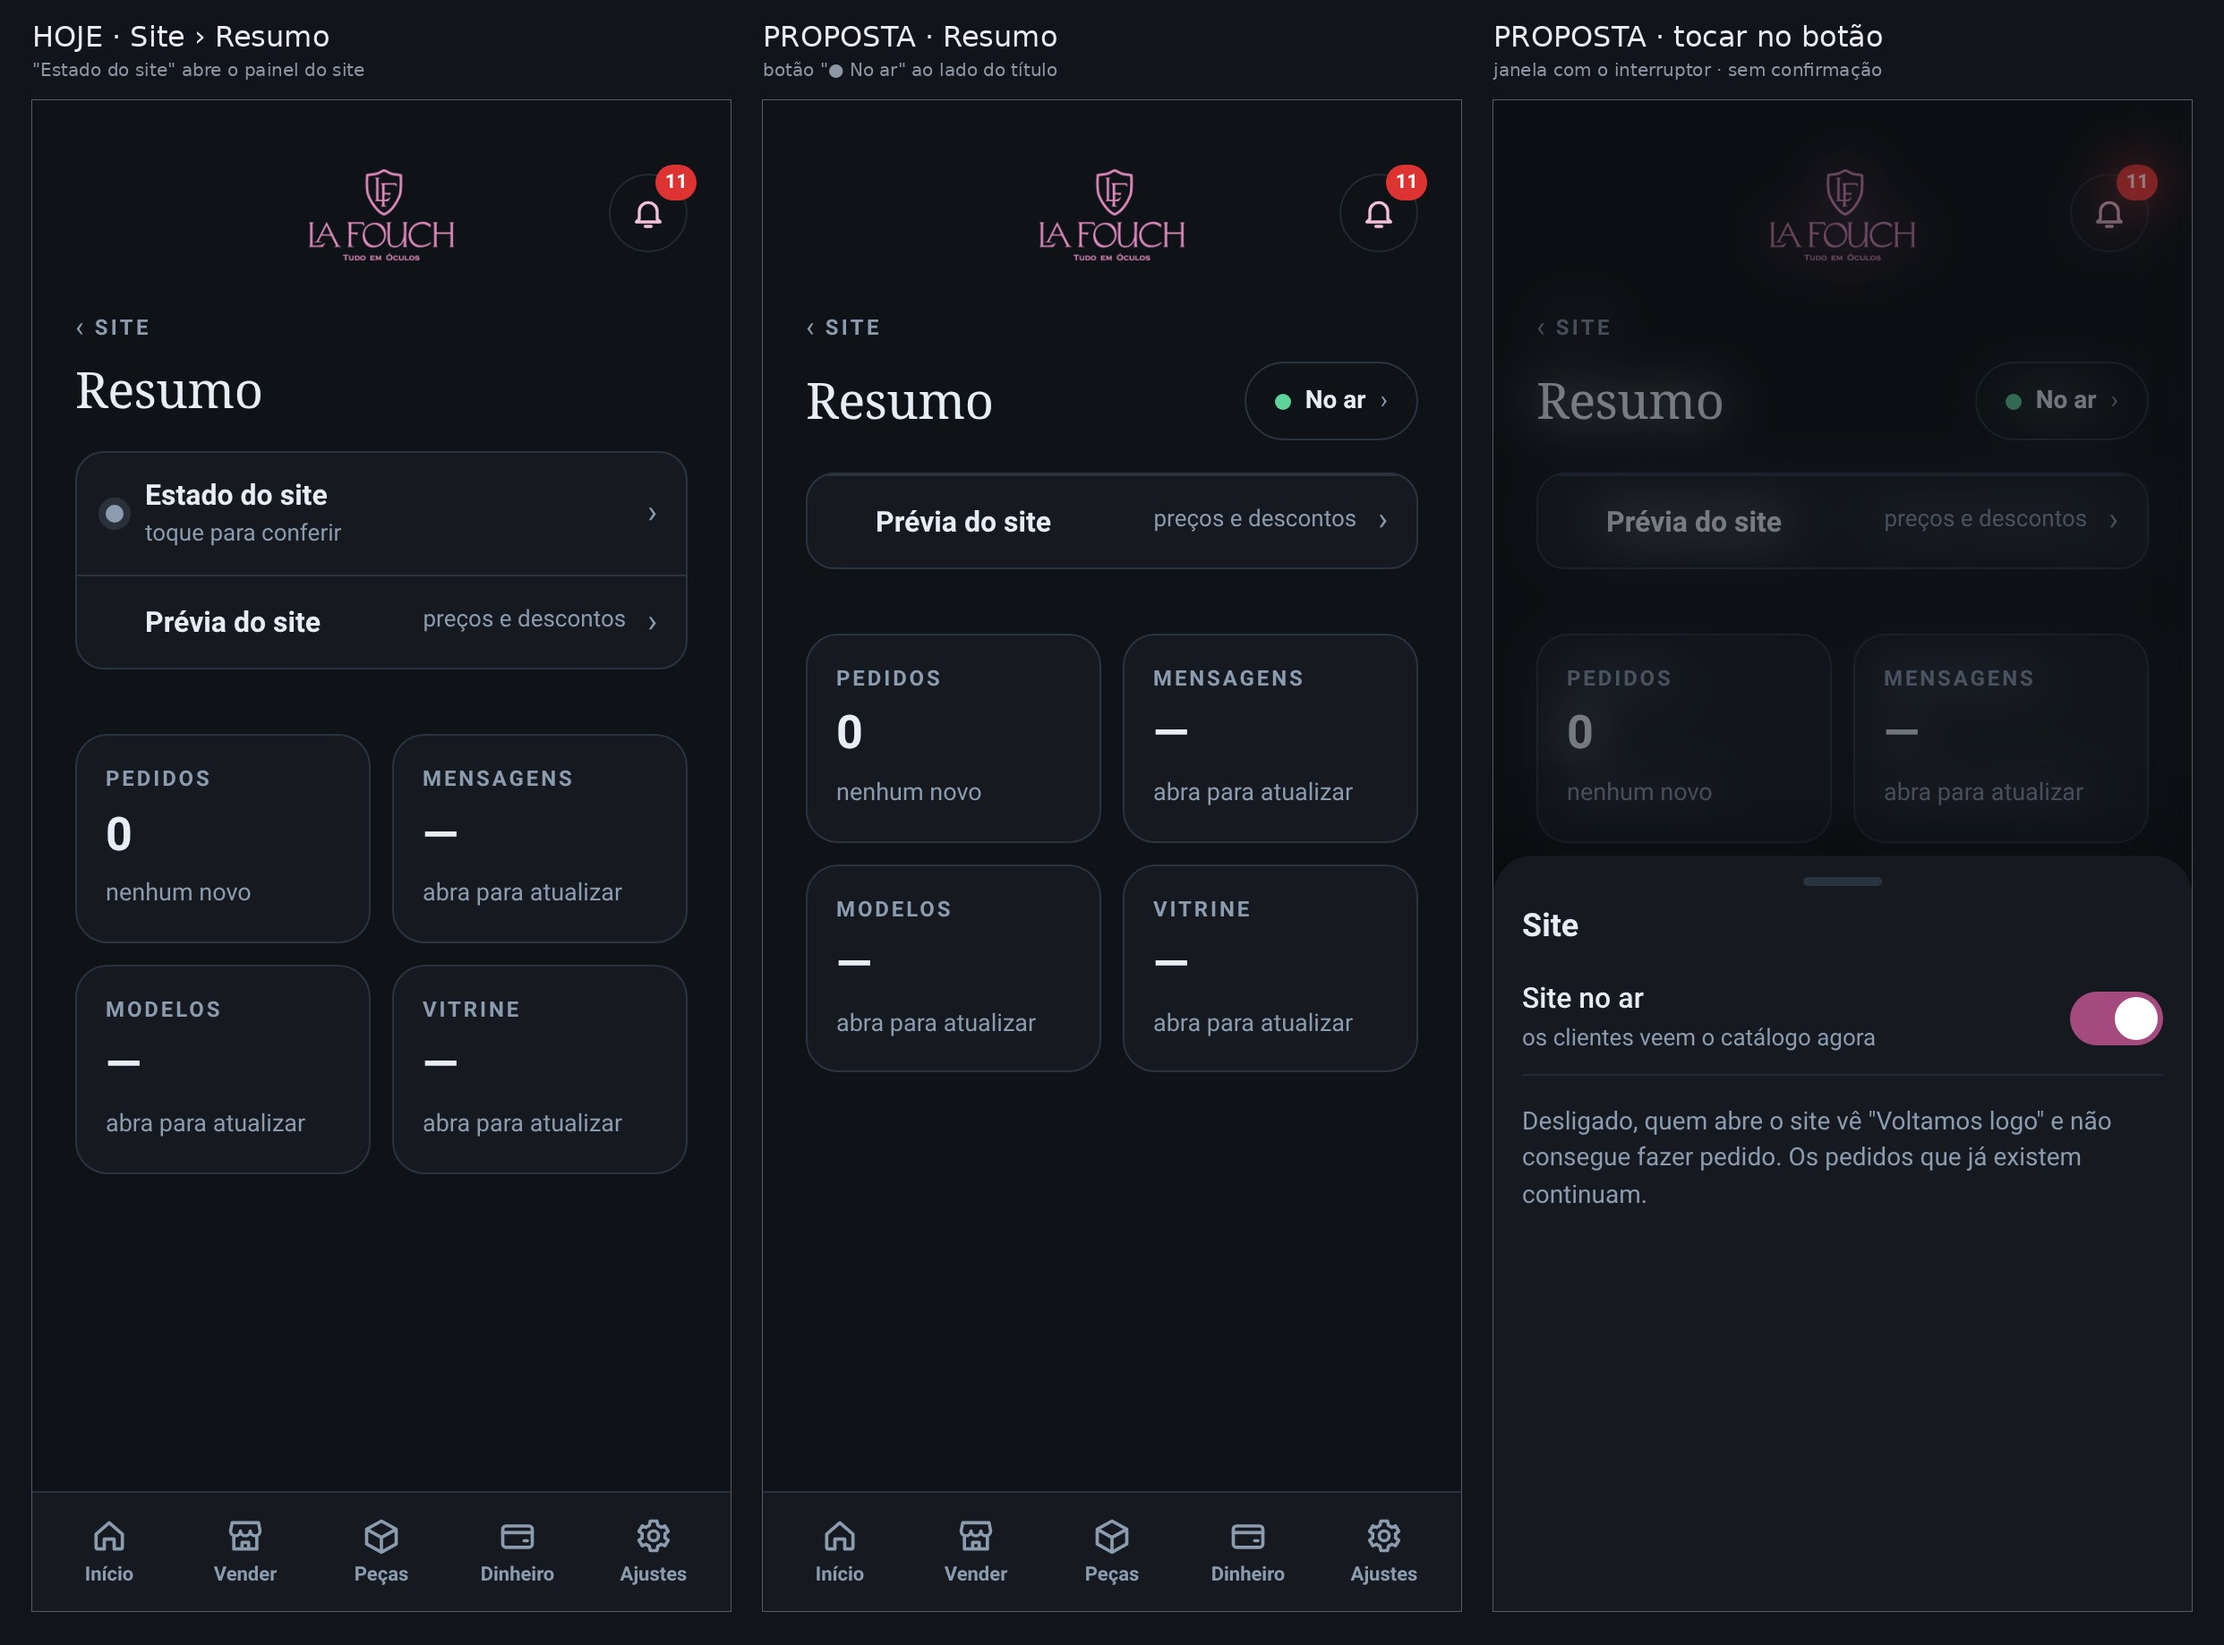
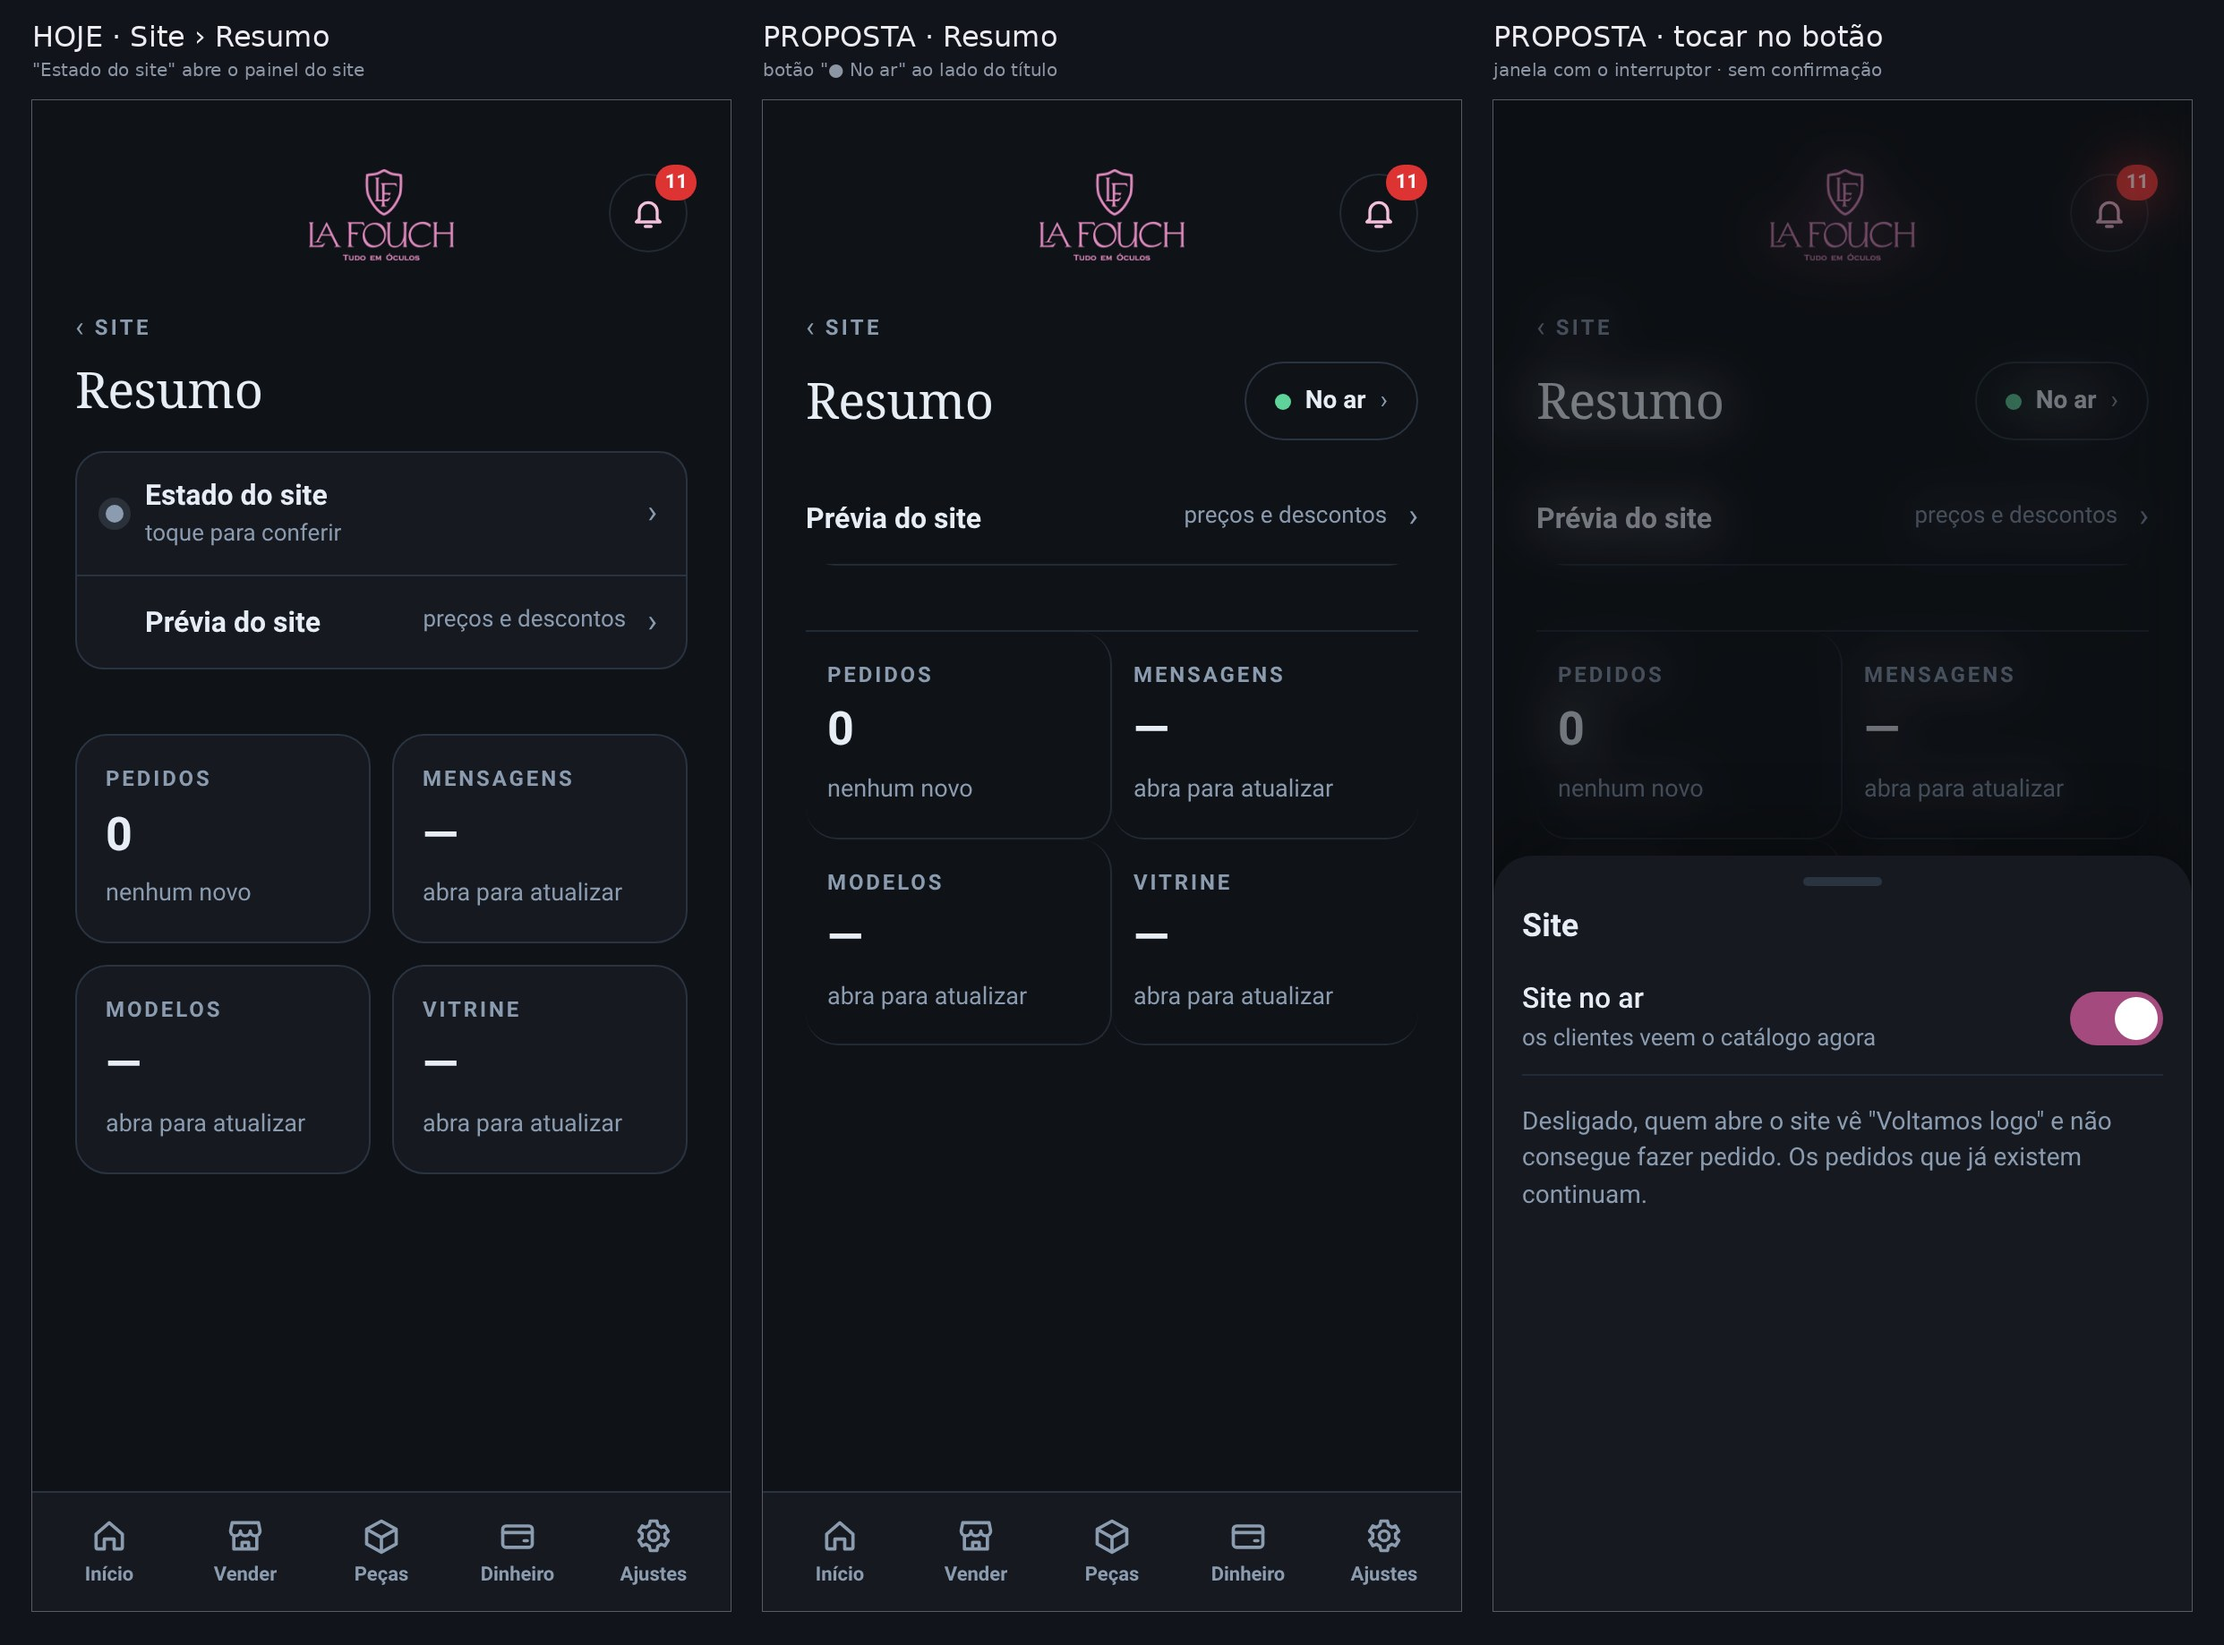
Esboço 46a refeito sobre a base aprovada do Site (96/97)
Claude-Session: https://claude.ai/code/session_01Vj5GPRt4UBskC3w8v52h7G

diff --git a/work/s435/switch/esboco_46.py b/work/s435/switch/esboco_46.py
@@ -17,7 +17,7 @@ def tira(pw,v,js=None,arg=None,pre=None,prep=None):
   pg.add_style_tag(content='#nvBar{display:none!important}')
   if js: pg.evaluate(r"""(a)=>{"""+H+js+"}",arg);w(500)
   f='/tmp/s46.png';pg.screenshot(path=f);b.close();x=Image.open(f);x.load();return x.copy()
-SITE_P=r"""const c=document.querySelector('.cx97 .st96');if(c)c.remove();PONTA(PILL(1,'No ar'));"""
+SITE_P=r"""const fl=()=>{document.querySelectorAll('.cx97,.cx97 > *,.stG .stN,.st96,.pv97').forEach(e=>{['background','border','box-shadow','border-radius'].forEach(k=>e.style.setProperty(k,k=='border'?'0':'none','important'))});const c=document.querySelector('.cx97');if(c){c.style.setProperty('padding','0','important')}document.querySelectorAll('.pv97').forEach(e=>{e.style.setProperty('padding-left','0','important');e.style.setProperty('padding-right','0','important');e.style.setProperty('border-bottom','1px solid var(--line2)','important')});const g=document.querySelector('.stG');if(g){g.style.setProperty('gap','0','important');g.style.setProperty('border-top','1px solid var(--line2)','important')}document.querySelectorAll('.stG .stN').forEach((e,i)=>{e.style.setProperty('border-bottom','1px solid var(--line2)','important');if(i%2==0)e.style.setProperty('border-right','1px solid var(--line2)','important');e.style.setProperty('padding','16px 12px','important')})};fl();const c=document.querySelector('.cx97 .st96');if(c)c.remove();PONTA(PILL(1,'No ar'));"""
 SITE_J=SITE_P+r"""JAN('Site',SW('Site no ar','os clientes veem o catálogo agora',1)+'<div style="color:var(--mute);font-size:14px;line-height:1.45;margin:16px 0 0">Desligado, quem abre o site vê "Voltamos logo" e não consegue fazer pedido. Os pedidos que já existem continuam.</div>')"""
 PREC=r"""const S=__LF.S;S.dTab='prec';__LF.setView('dash')"""
 PREC_P=r"""const r=[...document.querySelectorAll('#ferr .nvL')].find(x=>/Preço automático/.test(x.textContent));if(r)r.remove();PONTA(PILL(0,'Automático'));"""
